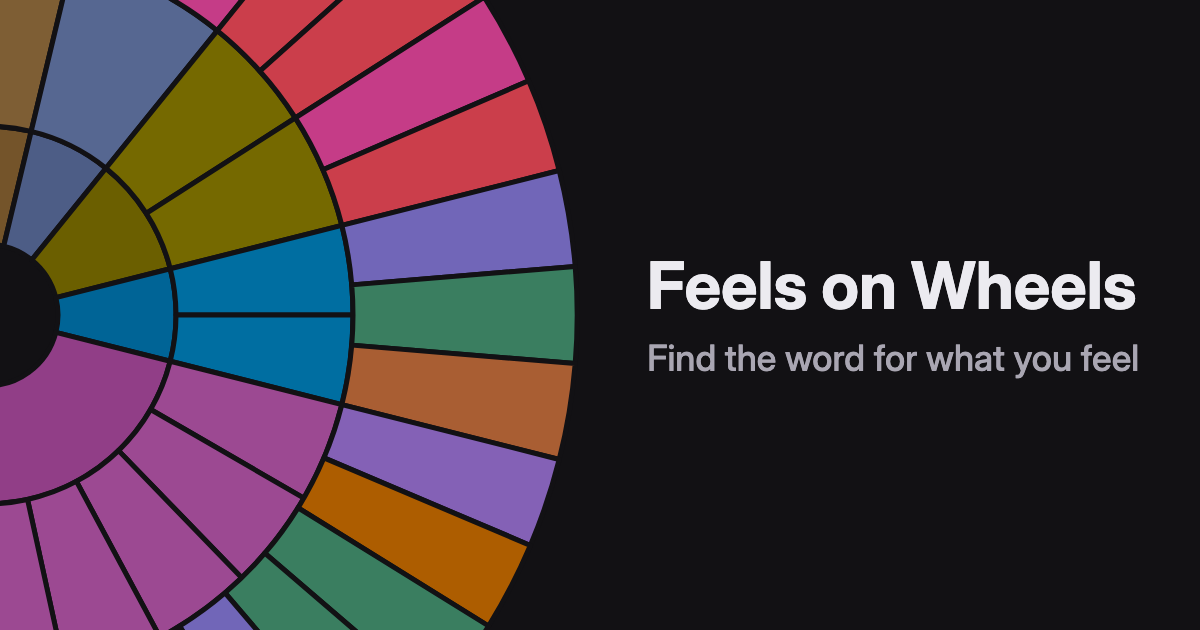
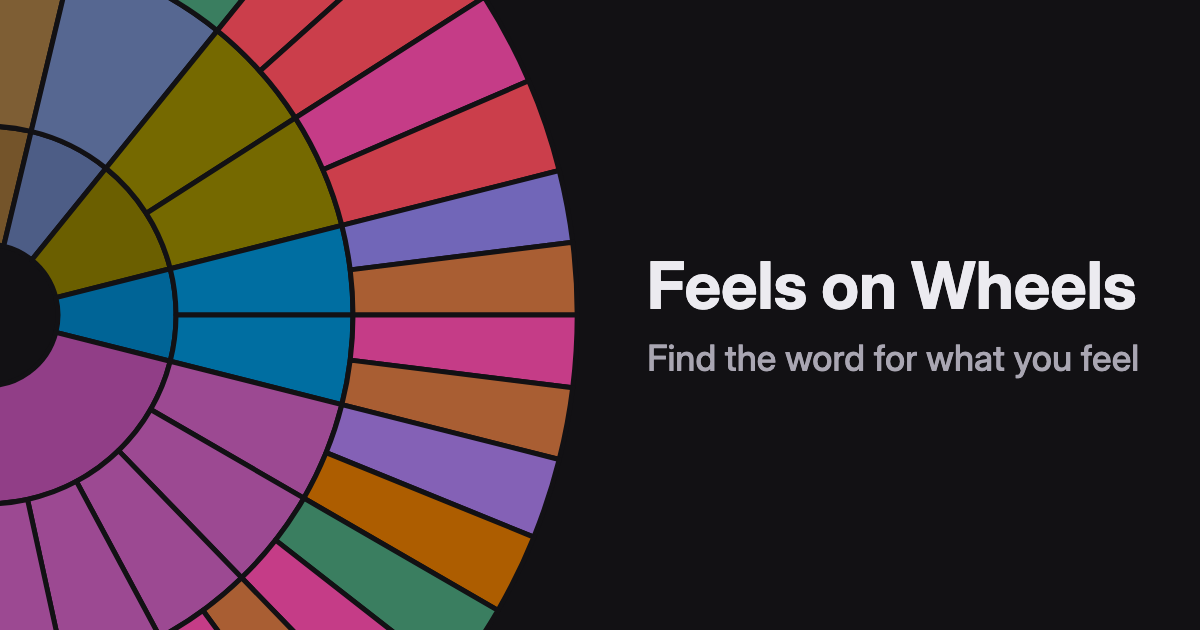
Link previews: each middle cell splits into two outer cells, so the rings line up

diff --git a/docs/superpowers/specs/2026-11-15-feels-on-wheels-body-wheel-rework-changes.md b/docs/superpowers/specs/2026-11-15-feels-on-wheels-body-wheel-rework-changes.md
@@ -94,3 +94,7 @@ Lucas, 2026-11-16: the drawn wheel names the Urges area "The urge to…" (with a
 ## The outer ring is lighter, like the feelings wheel's
 
 Lucas, 2026-11-16, after seeing three versions side by side: the body wheel's feeling cells take their own ring's shade, the lightest, instead of their core feeling's darkest shade (spec v2.1 §7.1). The darkest shade felt "way too bold". Each feeling's color as it sits on the feelings wheel varied by where a word happened to sit, so some areas looked heavy and nothing was consistent. Now both wheels go from darker in the center to lighter at the edge. The color tests already keep every area color distinct from every feeling color at every shade, so nothing else changes. The layout's `shadeRing` field, which only existed for the old rule, is gone.
+
+## Link previews: the rings line up
+
+Lucas, 2026-11-16: on the body wheel's link previews, the outer ring's cells never lined up with the middle ring's. The [share and preview spec](2026-11-15-feels-on-wheels-share-and-preview-design.md) §5 splits each ring into roughly equal cells, one ring at a time, so the boundaries fell in different places. Now every middle cell splits into exactly two outer cells, so the lines run straight through on both wheels, and the preview stays as chunky as before.
